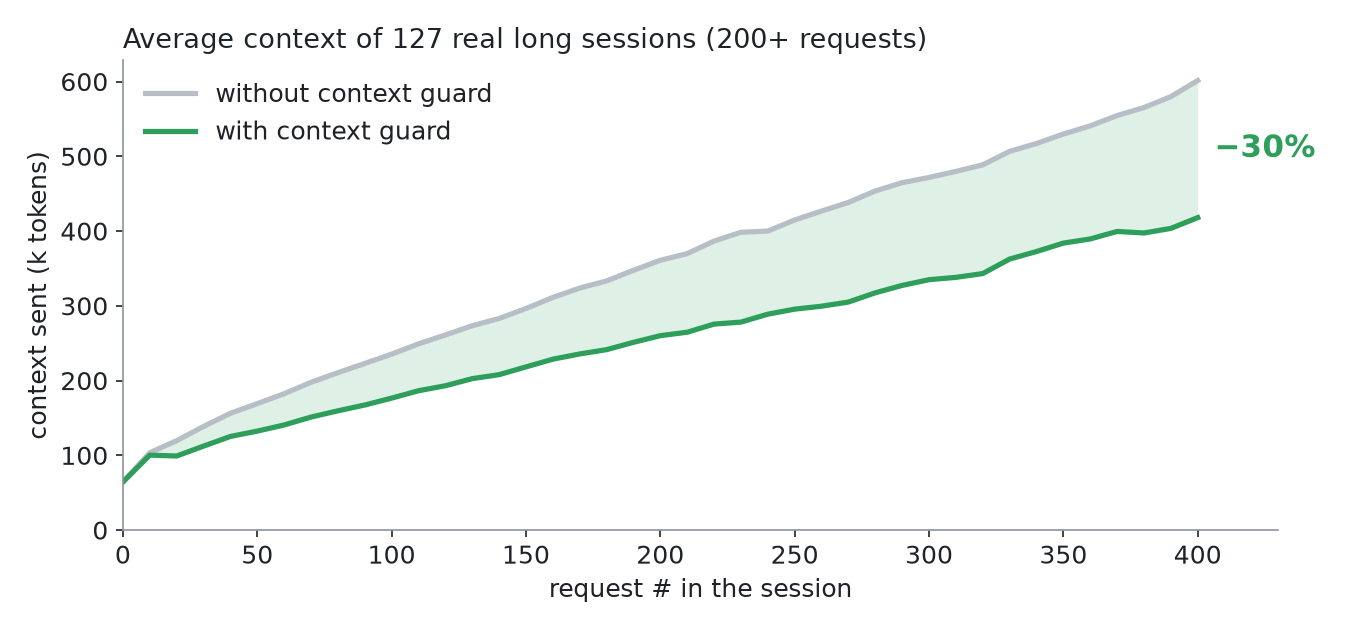
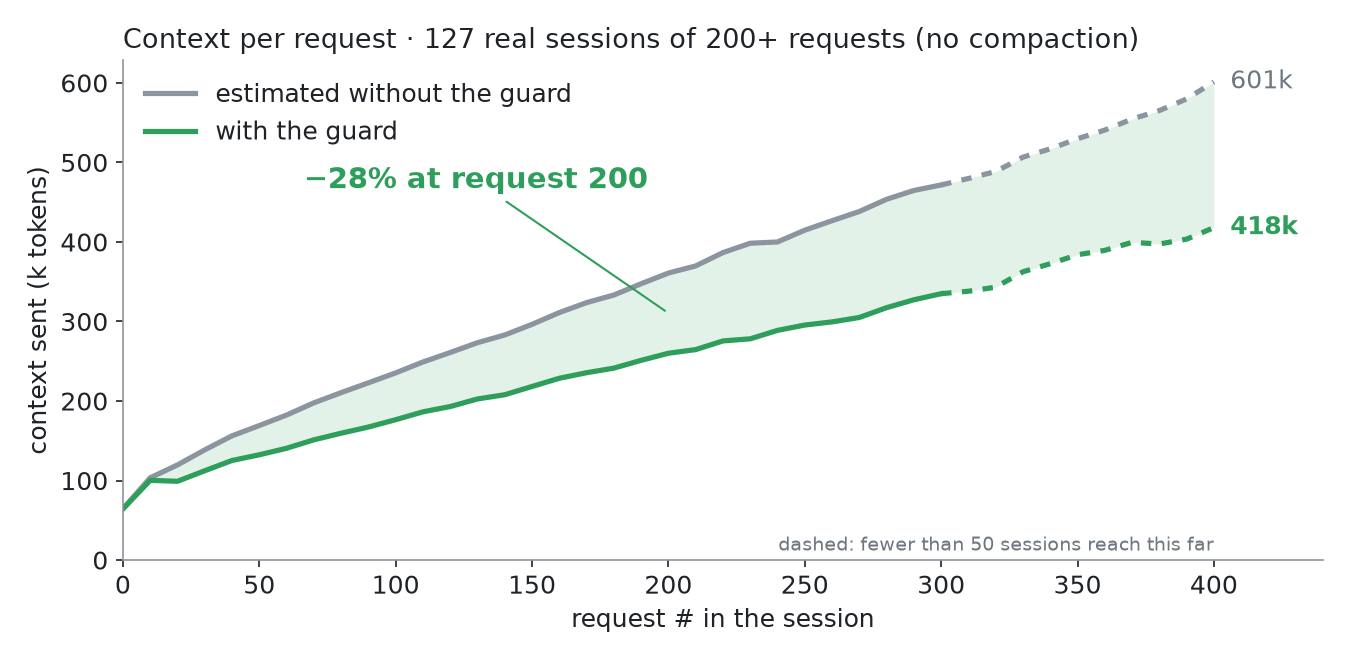
README after reviews (Fable 5.1, Astra 6): badges, install first, how-it-works steps, one decision table incl. the short-session cost increase, money breakdown, trade-offs table, honest chart labels (estimated baseline, −28% at request 200, dashed thin tail), bill-by-length chart; pi.image → context

diff --git a/test/analysis/charts.py b/test/analysis/charts.py
@@ -8,13 +8,13 @@ matplotlib.use("Agg")
 import matplotlib.pyplot as plt
 
 d = json.load(open("docs/data/real-usage.json"))
-GREEN, GREY, INK = "#2e9e5b", "#b8bec6", "#1f2328"
+GREEN, GREY, MUTED, INK, RED = "#2e9e5b", "#8c959f", "#6e7781", "#1f2328", "#c2410c"
 plt.rcParams.update(
     {
         "font.size": 12,
         "axes.spines.top": False,
         "axes.spines.right": False,
-        "axes.edgecolor": "#8c959f",
+        "axes.edgecolor": GREY,
         "text.color": INK,
         "axes.labelcolor": INK,
         "xtick.color": INK,
@@ -22,67 +22,99 @@ plt.rcParams.update(
     }
 )
 
-# 1. Context size over a long session, with and without the guard.
-pts = d["contextCurve200plus"]["points"]
+# 1. Context per request in long sessions: observed with the guard vs estimated without it.
+c = d["contextCurve200plus"]
+pts = c["points"]
 x = [p["request"] for p in pts]
 w = [p["withGuard"] / 1000 for p in pts]
 wo = [p["withoutGuard"] / 1000 for p in pts]
-fig, ax = plt.subplots(figsize=(9, 4.2), dpi=150)
-ax.fill_between(x, w, wo, color=GREEN, alpha=0.15, lw=0)
-ax.plot(x, wo, color=GREY, lw=2.5, label="without context guard")
-ax.plot(x, w, color=GREEN, lw=2.5, label="with context guard")
-last = pts[-1]
+cut = next(
+    i for i, p in enumerate(pts) if p["n"] < 500
+)  # fewer than 50 sessions reach this far: dashed tail
+fig, ax = plt.subplots(figsize=(9, 4.4), dpi=150)
+ax.fill_between(x, w, wo, color=GREEN, alpha=0.13, lw=0)
+for seg, style in ((slice(0, cut + 1), "-"), (slice(cut, None), (0, (2, 2)))):
+    ax.plot(
+        x[seg],
+        wo[seg],
+        color=GREY,
+        lw=2.5,
+        ls=style,
+        label="estimated without the guard" if style == "-" else None,
+    )
+    ax.plot(
+        x[seg],
+        w[seg],
+        color=GREEN,
+        lw=2.5,
+        ls=style,
+        label="with the guard" if style == "-" else None,
+    )
+i = x.index(200)
 ax.annotate(
-    f"−{(1 - last['withGuard'] / last['withoutGuard']) * 100:.0f}%",
-    xy=(x[-1], (w[-1] + wo[-1]) / 2),
-    xytext=(8, 0),
+    f"−{(1 - w[i] / wo[i]) * 100:.0f}% at request 200",
+    xy=(200, (w[i] + wo[i]) / 2),
+    xytext=(-175, 60),
     textcoords="offset points",
-    va="center",
-    fontsize=15,
+    fontsize=14,
     fontweight="bold",
     color=GREEN,
+    arrowprops=dict(arrowstyle="-", color=GREEN, lw=1),
+)
+ax.text(x[-1] + 6, wo[-1], f"{wo[-1]:.0f}k", va="center", color=MUTED)
+ax.text(x[-1] + 6, w[-1], f"{w[-1]:.0f}k", va="center", color=GREEN, fontweight="bold")
+ax.text(
+    x[-1],
+    12,
+    "dashed: fewer than 50 sessions reach this far",
+    ha="right",
+    fontsize=9,
+    color=MUTED,
 )
 ax.set_xlabel("request # in the session")
 ax.set_ylabel("context sent (k tokens)")
 ax.set_title(
-    f"Average context of {d['contextCurve200plus']['sessions']} real long sessions (200+ requests)",
+    f"Context per request · {c['sessions']} real sessions of 200+ requests (no compaction)",
     loc="left",
     fontsize=13,
 )
 ax.legend(frameon=False, loc="upper left")
-ax.set_xlim(0, x[-1] + 30)
+ax.set_xlim(0, x[-1] + 40)
 ax.set_ylim(0)
 fig.tight_layout()
 fig.savefig("assets/context-curve.png")
 
-# 2. Context reduction by session length and role.
+# 2. Estimated net effect on the bill by session length.
+L = d["bySessionLength"]
 groups = [
-    ("< 50 requests", d["bySessionLength"]["<50 requests"]),
-    ("50–199", d["bySessionLength"]["50-199 requests"]),
-    ("200+", d["bySessionLength"]["200+ requests"]),
-    ("subagents", d["byRole"]["subagents"]),
-    ("all", d["total"]),
+    ("under 50 requests", L["<50 requests"]),
+    ("50–199 requests", L["50-199 requests"]),
+    ("200+ requests", L["200+ requests"]),
 ]
-fig, ax = plt.subplots(figsize=(9, 3.4), dpi=150)
-labels = [g[0] for g in groups]
-vals = [g[1]["contextReductionPct"] for g in groups]
-bars = ax.barh(
-    labels[::-1],
-    vals[::-1],
-    color=[GREEN if l == "all" else "#7cc49a" for l in labels[::-1]],
-)
-for b, v, g in zip(bars, vals[::-1], [g[1] for g in groups][::-1]):
+net = [g["netSavingPct"] for _, g in groups]
+fig, ax = plt.subplots(figsize=(9, 3.2), dpi=150)
+ax.barh(range(3), net, color=[RED if v < 0 else GREEN for v in net], height=0.6)
+ax.set_yticks(range(3), [f"{n}\n{g['sessions']:,} sessions" for n, g in groups])
+ax.invert_yaxis()
+ax.axvline(0, color=INK, lw=0.8)
+for k, v in enumerate(net):
     ax.text(
-        b.get_width() + 0.4,
-        b.get_y() + b.get_height() / 2,
-        f"−{v:.0f}%  ({g['sessions']:,} sessions)",
+        max(v, 0) + 0.2,
+        k,
+        f"bill +{abs(v):.1f}%" if v < 0 else f"bill −{v:.1f}%",
         va="center",
-        fontsize=11,
+        fontsize=12,
+        fontweight="bold",
+        color=RED if v < 0 else GREEN,
     )
-ax.set_xlim(0, max(vals) * 1.45)
+ax.set_xlim(-3, 10)
 ax.set_xticks([])
 ax.spines["bottom"].set_visible(False)
-ax.set_title("Fewer context tokens sent, by session length", loc="left", fontsize=13)
+ax.spines["left"].set_visible(False)
+ax.tick_params(axis="y", length=0)
+ax.set_title(
+    "Estimated main-model bill, net of cache rewrites and Jev", loc="left", fontsize=13
+)
 fig.tight_layout()
-fig.savefig("assets/reduction.png")
-print("wrote assets/context-curve.png assets/reduction.png")
+fig.savefig("assets/bill-by-length.png")
+print("wrote assets/context-curve.png assets/bill-by-length.png")

diff --git a/README.md b/README.md
@@ -1,74 +1,83 @@
 # pi-context-guard-jev
 
-**Your [Pi](https://github.com/earendil-works/pi) agent re-sends every old tool output with every request.
-This extension takes out the parts it no longer needs: 25% less context across 1,138 real sessions,
-for about 1.6¢ per session.**
+[![npm](https://img.shields.io/npm/v/pi-context-guard-jev)](https://www.npmjs.com/package/pi-context-guard-jev)
+![license](https://img.shields.io/npm/l/pi-context-guard-jev)
+![Pi ≥ 1.0.3](https://img.shields.io/badge/Pi-%E2%89%A5%201.0.3-blue)
 
-![Average context of 127 real long sessions: with the guard it grows to 418k tokens by request 400, without it to 601k](https://raw.githubusercontent.com/alandarev/pi-context-guard-jev/master/assets/context-curve.png)
+**Tool output is 57% of what your [Pi](https://github.com/earendil-works/pi) agent re-sends with every
+request (1,138 real sessions). This extension trims what the work no longer needs: an estimated 25% fewer
+context tokens, for 1.6¢ per session.**
 
 ```bash
 pi install npm:pi-context-guard-jev
 ```
 
-Needs an OpenRouter key (`OPENROUTER_API_KEY` or `/login`). The footer then shows `🛡 0 saved`.
+Needs an OpenRouter key (`OPENROUTER_API_KEY` or `/login`); the footer then shows `🛡 0 saved`. Judged tool
+output is sent to OpenRouter → TypeSafe ([what exactly](https://github.com/alandarev/pi-context-guard-jev/blob/master/docs/REFERENCE.md#data-sent-to-jev)).
 
-## Measured on real work
+![Context per request in 127 real sessions of 200+ requests: with the guard 260k tokens at request 200, estimated 361k without it (−28%)](https://raw.githubusercontent.com/alandarev/pi-context-guard-jev/master/assets/context-curve.png)
 
-Three weeks of one heavy user's everyday sessions (October 2026), Claude and GPT, main sessions and
-subagents:
+## How it works
 
-| | |
-|---|---|
-| Sessions / model requests | **1,138 / 154,045** |
-| Context tokens sent | **−25%** (10.8B fewer) |
-| Long sessions (200+ requests) | **−26%**, **−30%** by request 400 |
-| Main-model bill, net of prompt-cache rewrites¹ | **−5.8%** (−7.1% in long sessions, −10% in subagents) |
-| Classifier cost | **$18 total**: 0.1% of the model spend |
-| Removed items the model asked back for | **1–4%** |
-
-![Context reduction: −16% under 50 requests, −22% at 50–199, −26% at 200+, −28% in subagents, −25% overall](https://raw.githubusercontent.com/alandarev/pi-context-guard-jev/master/assets/reduction.png)
-
-¹ Estimated from each request's own token prices. Raw aggregates:
-[docs/data/real-usage.json](docs/data/real-usage.json). Method and limits: [docs/RESULTS.md](docs/RESULTS.md).
-
-## What it removes
-
-| Item | Who decides | The model then sees |
-|---|---|---|
-| Large tool output (≥ 4k chars) | Jev keeps the lines the work still needs | The kept lines, verbatim, and one note per gap |
-| Small tool output (400–4k) | Jev: still needed? | A one-line note |
-| Old exchange about another task | Jev: still relevant? | A one-line note |
-| Screenshot in a tool result | 3 turns old | A one-line note |
-
-Every note says how to get the original back: `recall({"entryId":"…"})`.
+1. When a run ends, and at checkpoints in long runs, **Jev** (a small, fast classifier by TypeSafe) judges
+   each old tool output against the question, the answer and the ongoing work.
+2. Lines still needed stay verbatim; the rest becomes a one-line note. Unrelated old exchanges and
+   screenshots older than 3 turns become notes too. Edits that are not expected to pay back their
+   prompt-cache rewrite are skipped.
+3. Every note ends with `recall({"entryId":"…"})`, so the model can fetch the original.
 
 ```text
 [context-guard] Distilled the output of bash `rg -n -i compact dist docs`: kept 141 of 431 lines (15.1k of 50.4k chars); the rest was judged not needed for the answer. Full output: recall({"entryId":"1704787f"}).
 ```
 
-**Jev** is a small, fast classifier (TypeSafe, via OpenRouter). It runs when a run ends and, in long runs,
-mid-run. Edits only happen when the smaller context pays back the prompt-cache rewrite they cause.
+## Measured on real work
+
+Three weeks (October 2026) of one heavy user's everyday Pi sessions: Claude and GPT, main sessions and
+subagents. "Without the guard" = the same sessions with the edits undone (an estimate, not an A/B test).
+
+| | Context sent | Est. bill¹ | Sessions |
+|---|---|---|---|
+| **All** | **−25%** (10.8 billion tokens) | **−5.8%** | 1,138 |
+| Claude (Anthropic) | −26% | −6.1% | 512 |
+| GPT (OpenAI Codex) | −22% | −5.1% | 625 |
+| Under 50 requests | −16% | **+1.7%** | 580 |
+| 50–199 requests | −22% | −1.1% | 365 |
+| 200+ requests | −26% | −7.1% | 193 |
+| Subagents (any length) | −28% | −10% | 865 |
+
+![Estimated main-model bill by session length: under 50 requests +1.7%, 50–199 requests −1.1%, 200+ requests −7.1%](https://raw.githubusercontent.com/alandarev/pi-context-guard-jev/master/assets/bill-by-length.png)
+
+| | |
+|---|---|
+| Where the money went | $3,175 cheaper context − $2,210 prompt-cache rewrites − $18 Jev = **$948 net** on $15,459 spend |
+| Items edited | 60,005: 24.6k large outputs distilled, 31.5k small outputs and 566 exchanges omitted, 3.3k screenshots removed |
+| Model fetched a removed item back | **2.8%** (1.2–4.0% by type) |
+
+¹ Estimated at each request's own token prices, net of cache rewrites and Jev. The rows are three splits of
+the same sessions. The data predates 0.3.4, which skips run-end edits that do not pay off.
+[Raw aggregates](https://github.com/alandarev/pi-context-guard-jev/blob/master/docs/data/real-usage.json) ·
+[method and limits](https://github.com/alandarev/pi-context-guard-jev/blob/master/docs/RESULTS.md#real-usage-october-2026).
 
 ## Use
 
-Nothing to call. `/guard` shows each decision, `/guard off` turns it off, `/tree` undoes an edit.
+Nothing to call. `/guard` shows each decision, `/guard off` turns it off, `/tree` to a point before an edit
+undoes it. Footer: `🛡 −4.2k · 3` = about 4.2k tokens kept out of context right now, by 3 edits.
 
-| Footer | Meaning |
-|---|---|
-| `🛡 −4.2k · 3` | 4.2k tokens kept out of context right now, by 3 edits |
-| `🛡 0 · Σ−79k` | After a compaction: 79k saved in this session in total |
-| `🛡 Jev failing: 402 insufficient credits` | Classifier unavailable: nothing is removed |
+Settings live in `~/.pi/agent/context-guard.json`, e.g. `{ "excludeTools": ["edit", "write", "bash"] }`
+([all keys](https://github.com/alandarev/pi-context-guard-jev/blob/master/docs/REFERENCE.md#configuration)).
 
 ## Trade-offs
 
-- **Sends data to a third party.** Each pass sends your prompt, the answer and the tool outputs being judged
-  to OpenRouter and TypeSafe. Images and `edit`/`write` results are never sent.
-  [Full list](docs/REFERENCE.md#data-sent-to-jev).
-- **Lossy.** Removed lines can be needed later; the model sees what is missing and recalls it.
-- **Short sessions:** less context, but no lower bill (the cache rewrite eats the saving).
-- **Latency:** 0.5–2 s per pass.
+| | |
+|---|---|
+| **Third party** | Each pass sends your prompt, the answer or progress notes, short excerpts of earlier messages, tool arguments and the outputs being judged to OpenRouter → TypeSafe. Never sent: images, outputs under 400 chars, excluded tools (`edit`, `write` by default) |
+| **Lossy** | A removed line can be needed later. The note says what is missing and the model can recall it (it did for 2.8% of removed items) |
+| **Short sessions** | Under 50 requests: less context, but the cache rewrite costs more than it saves (+1.7% bill) |
+| **Latency** | 0.5–2 s per pass, 8 s at most |
 
 ## More
 
-[Settings](docs/REFERENCE.md#configuration) · [Results](docs/RESULTS.md) · [Threshold replay](docs/REPLAY.md) ·
-[Design](docs/DESIGN.md) · [Prompt cache](docs/CACHE.md) · [Jev questions](docs/JEV.md) · MIT license
+[Settings](https://github.com/alandarev/pi-context-guard-jev/blob/master/docs/REFERENCE.md) ·
+[Results](https://github.com/alandarev/pi-context-guard-jev/blob/master/docs/RESULTS.md) ·
+[Threshold replay](https://github.com/alandarev/pi-context-guard-jev/blob/master/docs/REPLAY.md) ·
+[Design](https://github.com/alandarev/pi-context-guard-jev/blob/master/docs/DESIGN.md) · MIT license
